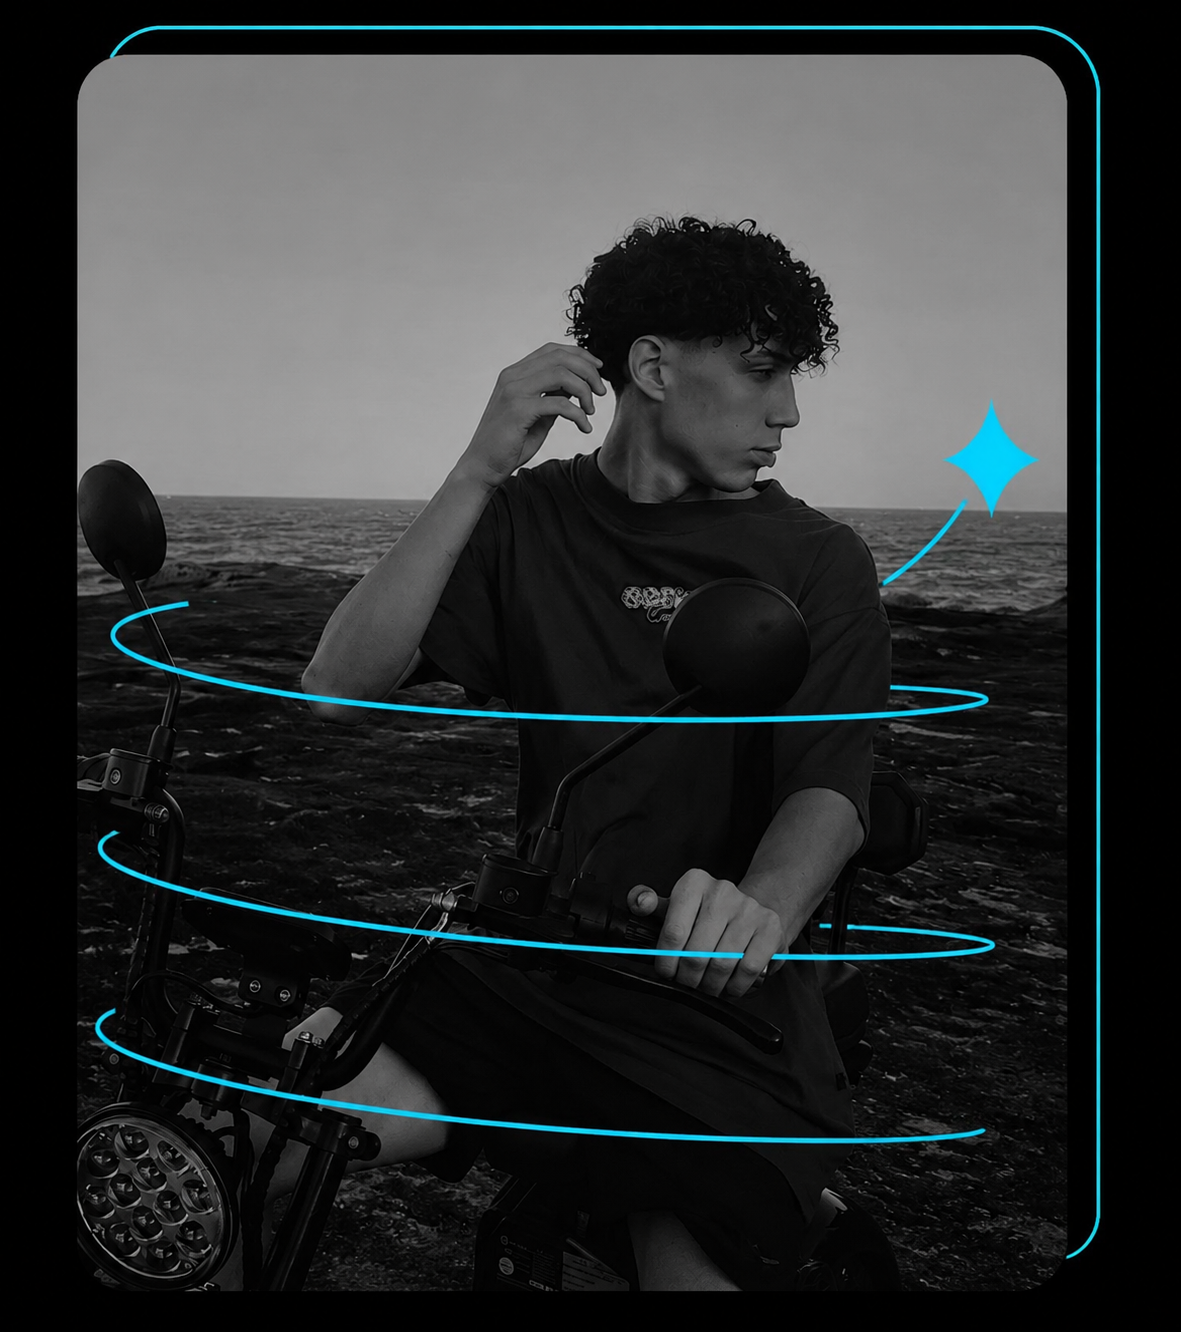
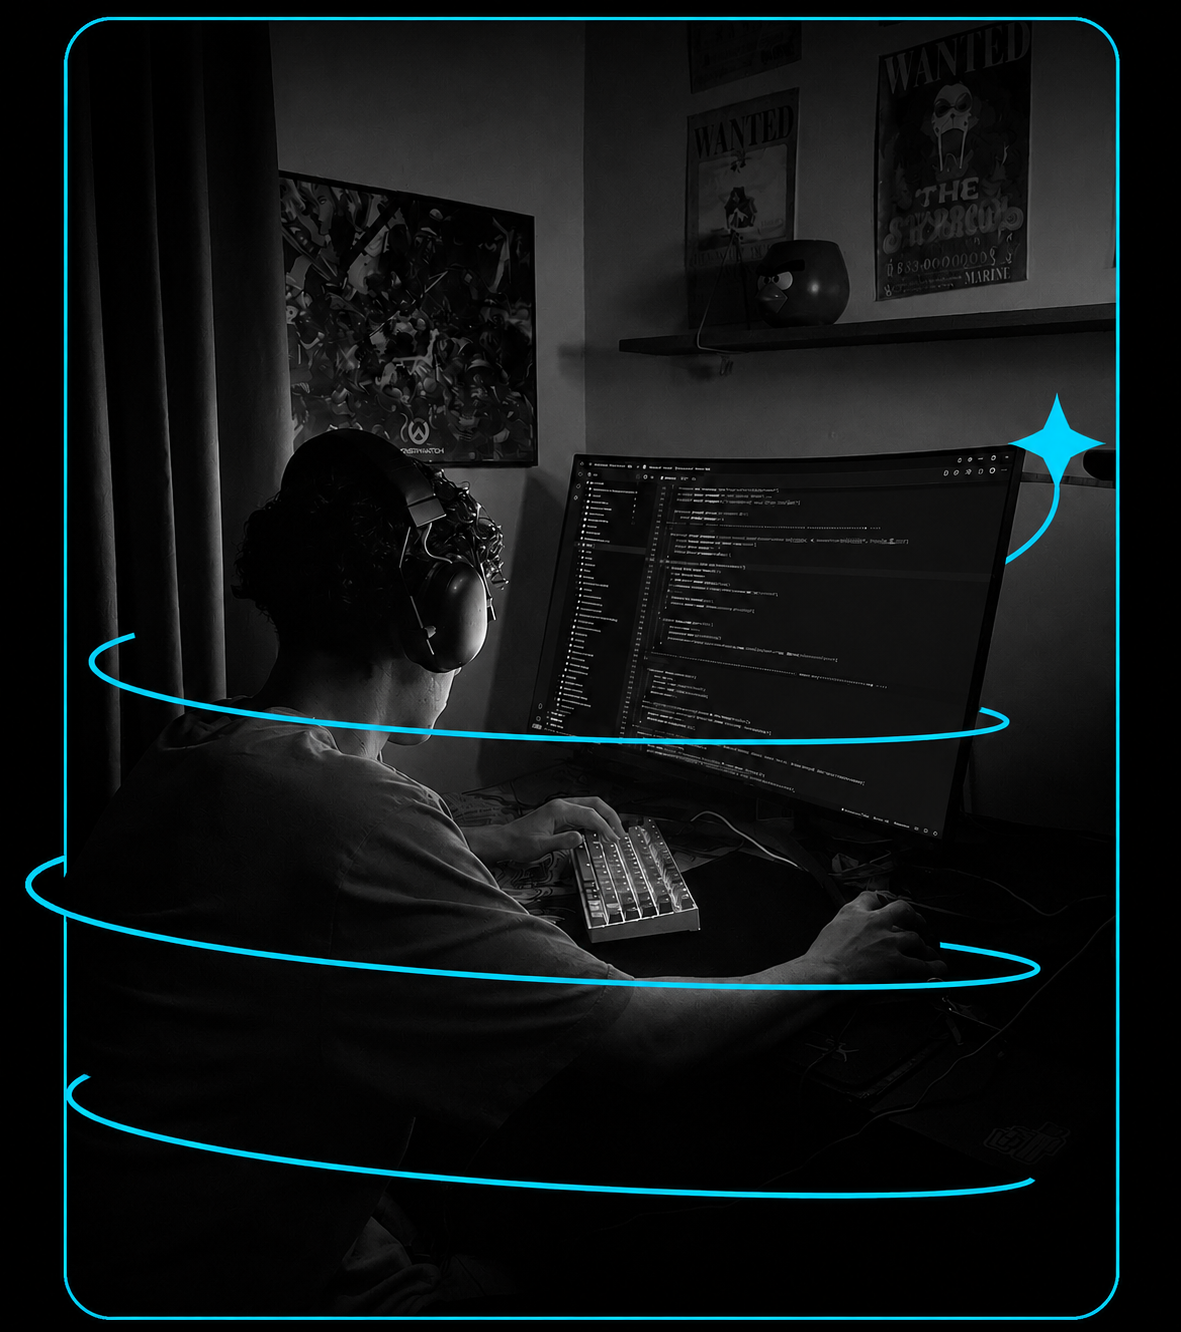
adicionando variáveis

diff --git a/styles/style.css b/styles/style.css
@@ -1,6 +1,16 @@
 
 @import url('https://fonts.googleapis.com/css2?family=Krona+One&family=Montserrat:ital,wght@0,100..900;1,100..900&display=swap');
 
+:root{
+    --cor-primaria: #000000;
+    --cor-secundaria: #f6f6f6;
+    --cor-terciaria: #22d4fd;
+    --cor-hover: #272727;
+    
+    --fonte-primaria: "Krona One", sans-serif;
+    --font-secundaria: "Montserrat", sans-serif;
+}
+
 *{
     margin: 0;
     padding: 0;
@@ -8,8 +18,8 @@
 
 body {
     box-sizing: border-box;
-    background-color: #000000;
-    color: #f6f6f6;
+    background-color: var(--cor-primaria);
+    color: var(--cor-secundaria);
 }
 
 .apresentacao{
@@ -24,20 +34,24 @@ body {
     flex-direction: column;
     gap: 30px;
 }
-.imagem-moto{
+.imagem-me{
+    width: 488px;
+    height: 550px;
+}
+.image-about{
     width: 488px;
     height: 550px;
 }
 .apresentacao__conteudo__titulo{
     font-size: 36px;
-    font-family: "Krona One", sans-serif;
+    font-family: var(--fonte-primaria);
 }
 .titulo-destaque {
-    color: #22D4FD;
+    color: var(--cor-terciaria);
 }
 .apresentacao__conteudo__texto{
     font-size: 20px;
-    font-family: "Montserrat", sans-serif;
+    font-family: var(--font-secundaria);
     font-weight: 400;
 }
 .apresentacao__links{
@@ -48,7 +62,7 @@ body {
     gap: 28px;
 }
 .apresentacao__links__subtitulo{
-font-family: "Krona One", sans-serif;
+font-family: var(--fonte-primaria);
 font-weight: 400;
 font-size: 24px;
 }
@@ -62,22 +76,22 @@ font-size: 24px;
     font-size: 24px;
     padding: 21.5px 0px;
     text-decoration: none;
-    color: #f6f6f6;
-    font-family: "Montserrat", sans-serif;
+    color: var(--cor-secundaria);
+    font-family: var(--font-secundaria);
     font-weight: 600;
-    border: 2px solid #22D4FD;
+    border: 2px solid var(--cor-terciaria);
 }
 .apresentacao__links__link:hover{
-    background-color: #272727;
+    background-color: var(--cor-hover);
     padding: 3%;
 }
 
 .rodape{
-    color: #000000;
-    background-color: #22D4FD;
+    color: var(--cor-primaria);
+    background-color: var(--cor-terciaria);
     padding: 24px;
     text-align: center;
-    font-family: 'Montserrat', sans-serif;
+    font-family: var(--font-secundaria);
     font-size: 24px;
     font-weight: 400;
 }
@@ -90,7 +104,7 @@ font-size: 24px;
     gap: 80px;
 }
 .cabecalho__menu__link{
-    font-family: 'Montserrat', sans-serif;
+    font-family: var(--font-secundaria);
     font-size: 24px;
     font-weight: 600;
     color: #22D4FD;
@@ -98,5 +112,5 @@ font-size: 24px;
 }
 .apresentacao__conteudo__texto a{
     text-decoration: none;
-    color: #22D4FD;
+    color: var(--cor-terciaria);
 }

diff --git a/about.html b/about.html
@@ -13,8 +13,16 @@
             <a class="cabecalho__menu__link" href="about.html">Sobre mim</a>
         </nav>
     </header>
-    <main>
-
+    <main class="apresentacao">
+        <section class="apresentacao__conteudo">
+            <h1 class="apresentacao__conteudo__titulo">Sobre mim</h1>
+            <p class="apresentacao__conteudo__texto">Olá! Me chamo Gustavo Lacerda, tenho 18 anos e sou natural de Guarapari, ES. Desde cedo, a tecnologia sempre fez parte da minha vida, eu sempre fui o "garoto da tecnologia" da família, aquele que resolvia os problemas do computador de todo mundo e ficava curioso sobre como as coisas funcionavam por trás da tela.
+Essa curiosidade me trouxe até aqui. Em 2026, dei o primeiro passo oficial dessa jornada ao ingressar no curso de Análise e Desenvolvimento de Sistemas (ADS), com o objetivo claro de me tornar um Desenvolvedor de Software e construir soluções que façam a diferença na vida das pessoas.</p>
+            <p class="apresentacao__conteudo__texto">Atualmente estou com foco no desenvolvimento back-end, me aprofundando em C#, TypeScript e SQL, tecnologias que acredito serem fundamentais para construir sistemas robustos e escaláveis. Mas minha jornada não começou por aí: já explorei Python, Dart, Flutter, HTML5 e CSS3, o que me deu uma visão ampla do universo do desenvolvimento e me ajudou a entender como as peças se encaixam.
+Acredito muito em aprender fazendo. Por isso, cada tecnologia que estudo gosto bastante de praticar, pois código que não é aplicado é conhecimento pela metade. Estou em constante evolução, um commit por vez, construindo o portfólio e a base técnica que me levarão à minha primeira oportunidade profissional como desenvolvedor.
+</p>
+        </section>
+        <img src="./assets/image-about.png" alt="Foto do meu rosto" class="image-about">
     </main>
     <footer class="rodape">
         <p>Desenvolvido por Gustavo Porto.</p>

diff --git a/index.html b/index.html
@@ -33,7 +33,7 @@
                 </a>
              </div>   
         </section>
-        <img src="./assets/image.png" alt="Imagem minha em cima de uma moto elétrica" class="imagem-moto">
+        <img src="./assets/image.png" alt="Imagem minha programando" class="imagem-me">
     </main>
     <footer class="rodape">
         <p>Desenvolvido por Gustavo Porto.</p>
